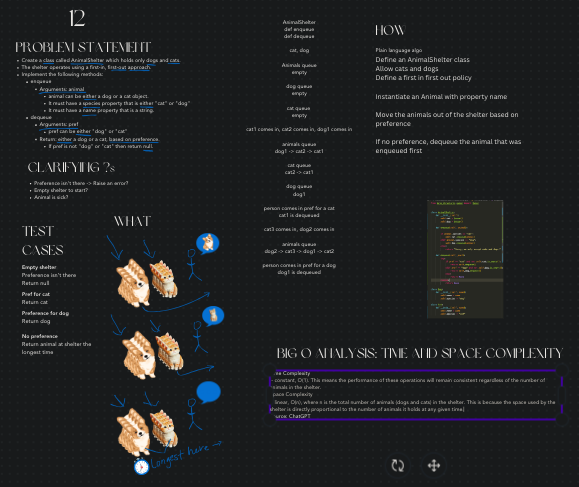
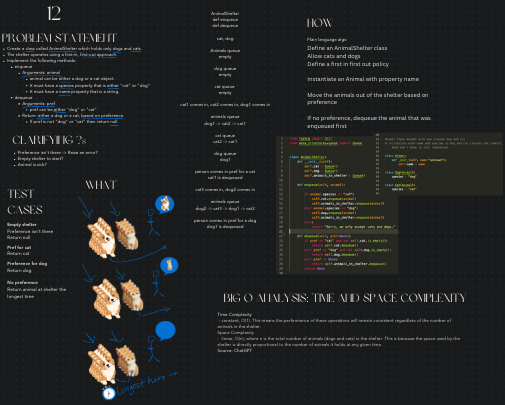
updated readme

diff --git a/python/code_challenges/stack_queue_animal_shelter.py b/python/code_challenges/stack_queue_animal_shelter.py
@@ -19,7 +19,6 @@ class AnimalShelter:
         else:
             return "Sorry, we only accept cats and dogs."
 
-#there's no test to confirm animals are dequeued in the order they were enqueued
     def dequeue(self, pref=None):
         if pref == "cat" and not self.cat.is_empty():
             return self.cat.dequeue()

diff --git a/python/docs/stack_queue_animal_shelter/README.md b/python/docs/stack_queue_animal_shelter/README.md
@@ -1,19 +1,14 @@
 # Stack Queue Animal Shelter
 This project is to create an Animal Shelter app using Stack and Queue data structures.
 
-Features:
+Three queues are created. One for cats, one for dogs and one for both based on the order of arrival to the shelter.
 
-- Stack
-  - Methods:
-    - push
-    - pop
-    - is empty
+Features:
 - Queue
   - Methods:
     - enqueue
     - dequeue
-
-It raises custom error messages and tests to prove the functionality.
+- Classes and Super Class (Animal)
 
 ## Whiteboard Process
 
